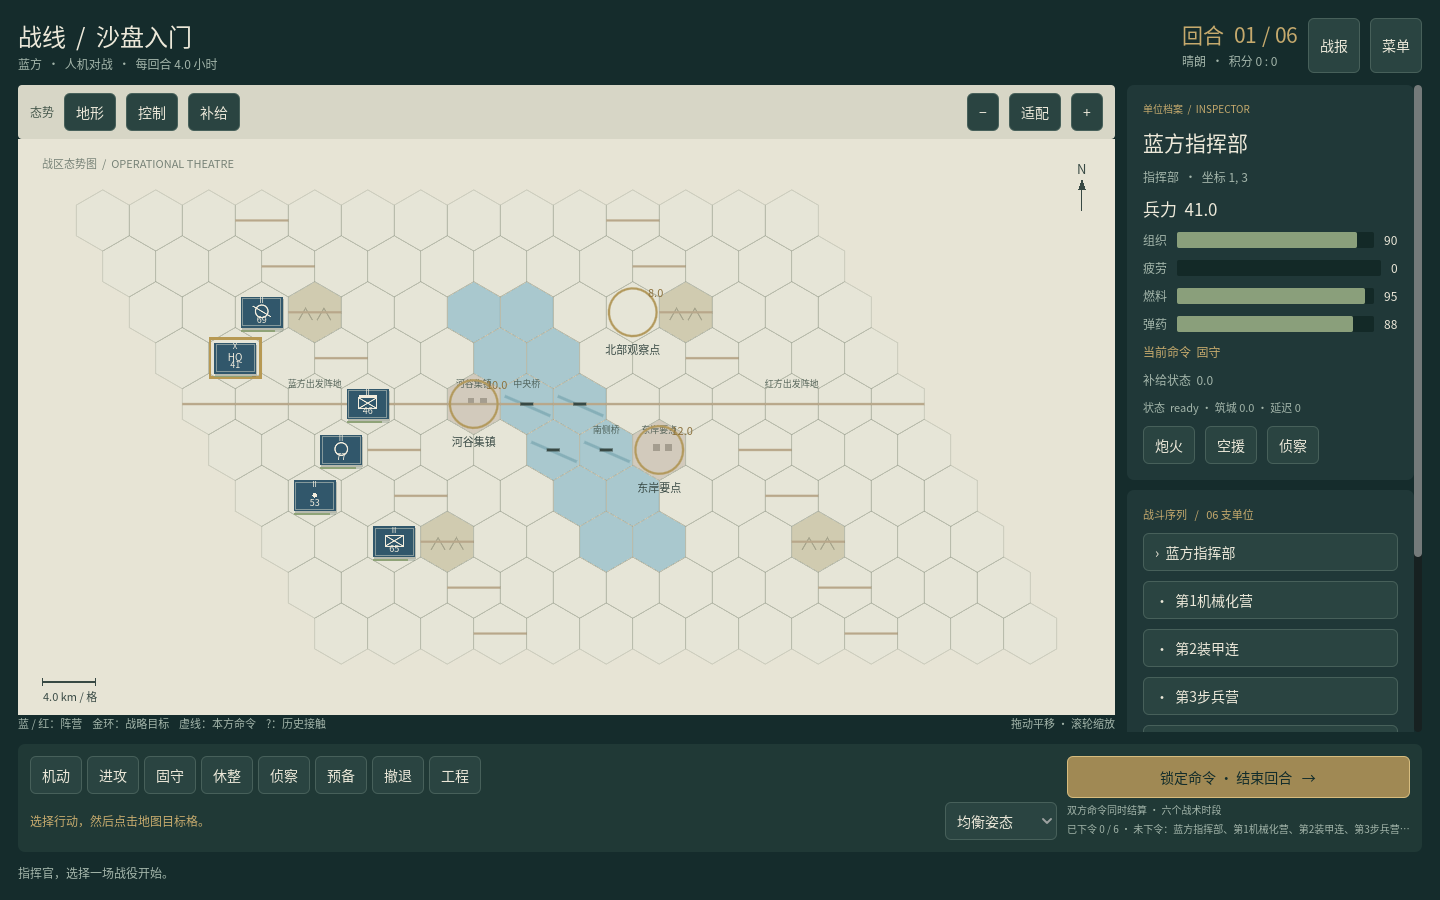
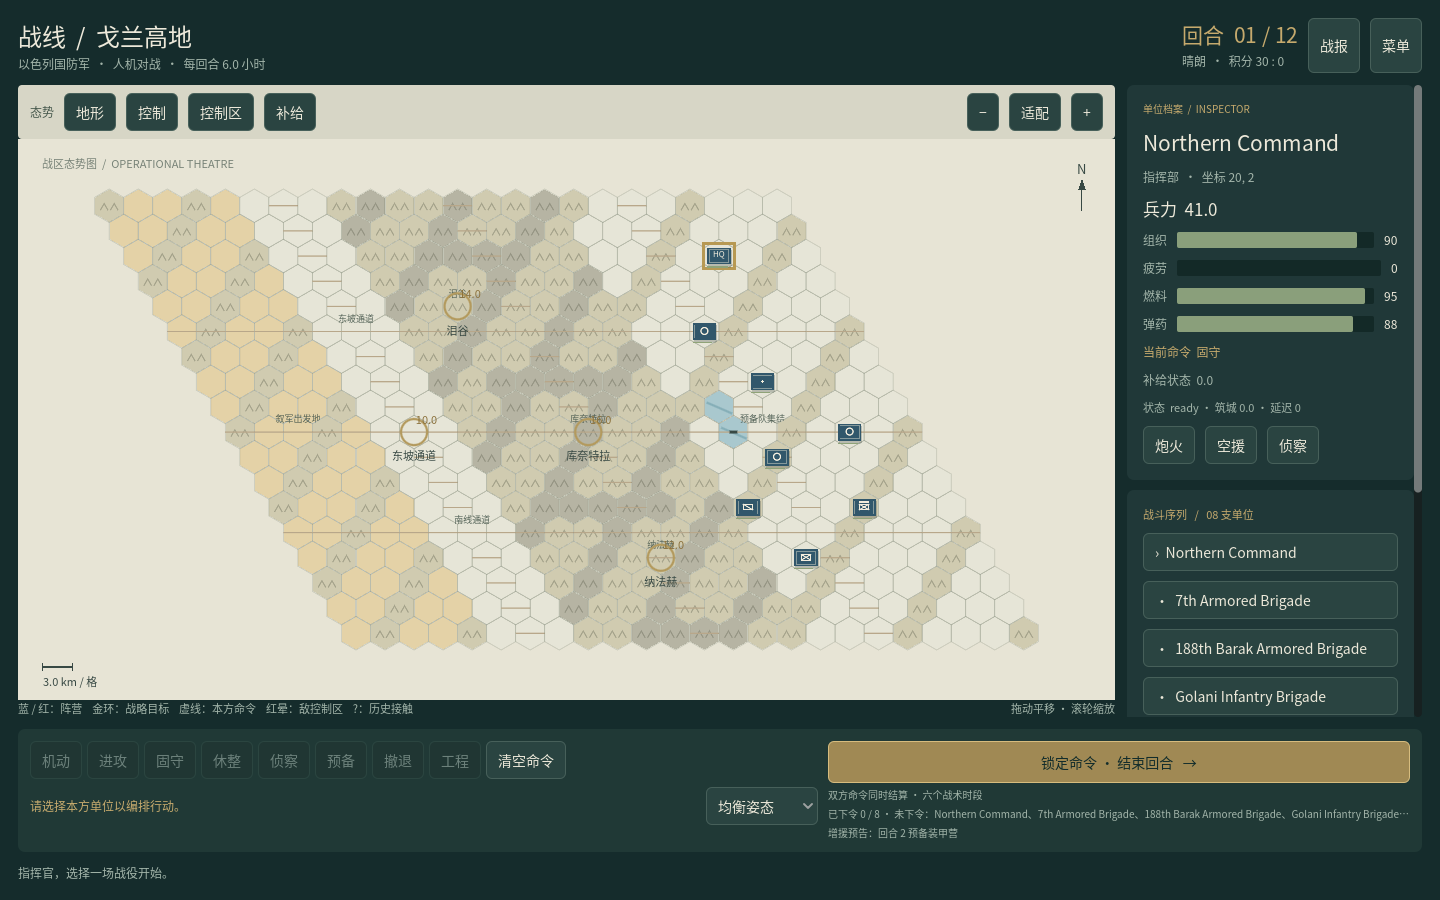
feat: honest combat estimates, ZOC layer, clear orders, AI logistics
Align estimate_combat with frontage; preview_move reports ZOC/stack/delay;
add ZOC overlay and clear-orders button/hotkey; AI rests on low supply/fuel,
retreats to depot, engineers bridges, prefers weak contacts on hard; gulf
weather schedules and extra engineer units.

diff --git a/scripts/validate_content.py b/scripts/validate_content.py
@@ -596,6 +596,7 @@ def roster_normandy_breakout() -> tuple[list[dict], list[dict]]:
             ("3rd Armored Division", "armor", "division", 7, 12),
             ("2nd Armored Cavalry Regiment", "recon", "regiment", 11, 4),
             ("VII Corps Artillery", "artillery", "brigade", 5, 14),
+            ("299th Combat Engineer Battalion", "engineer", "battalion", 9, 8),
         ],
         0,
     )
@@ -665,6 +666,7 @@ def roster_golan() -> tuple[list[dict], list[dict]]:
             ("Reserve Armor Column", "armor", "brigade", 21, 9),
             ("Northern Artillery", "artillery", "brigade", 19, 7),
             ("Recon Troop North", "recon", "battalion", 16, 12),
+            ("Combat Engineer Company", "engineer", "battalion", 20, 12),
         ],
         0,
     )
@@ -913,6 +915,7 @@ def build_gulf_west() -> dict:
         "第 VII 军与第 XVIII 空降军自西侧实施纵深勾拳，越过瓦迪巴廷并夺取共和卫队防御要点；伊军保持交通线并组织纵深防御。",
         "多国部队", "#587B8D", "伊拉克军", "#C5523A",
         tiles, coal + irq, objectives, depots, "gulf",
+        extra={"weather": "clear", "night_cycle": False, "weather_cycle": True, "weather_schedule": ["clear", "clear", "clear", "overcast", "clear", "storm", "clear", "clear", "overcast", "clear", "clear", "clear"]},
     )
 
 
@@ -936,6 +939,7 @@ def build_gulf_kuwait() -> dict:
         "联军自南与西突破伊军筑垒带，沿海岸与北向通道解放科威特城；伊军延缓突破并保持退路。地图含海岸、城市与筑垒带抽象，与沙漠左钩拳的开阔机动明显不同。",
         "联军", "#587B8D", "伊拉克军", "#C5523A",
         tiles, coal + irq, objectives, depots, "kuwait",
+        extra={"weather": "clear", "night_cycle": False, "weather_cycle": True, "weather_schedule": ["clear", "overcast", "clear", "clear", "night", "clear", "clear", "overcast", "clear", "clear", "clear", "clear"]},
     )
 
 
